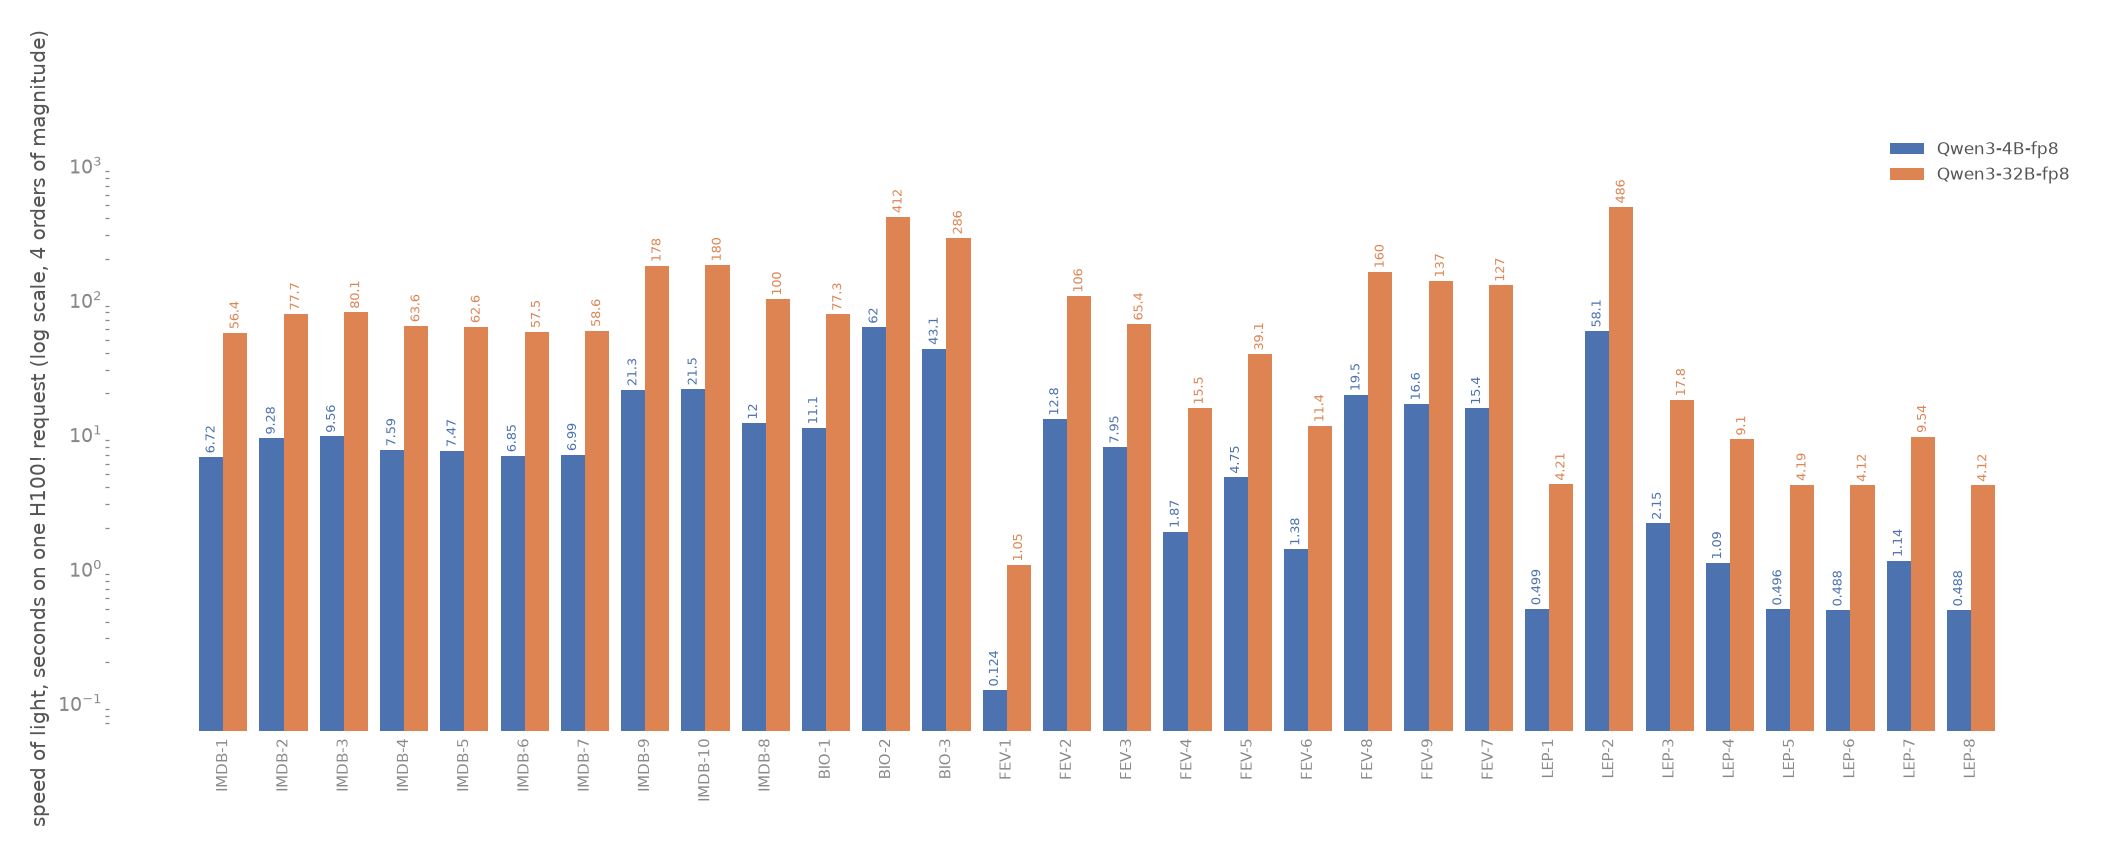
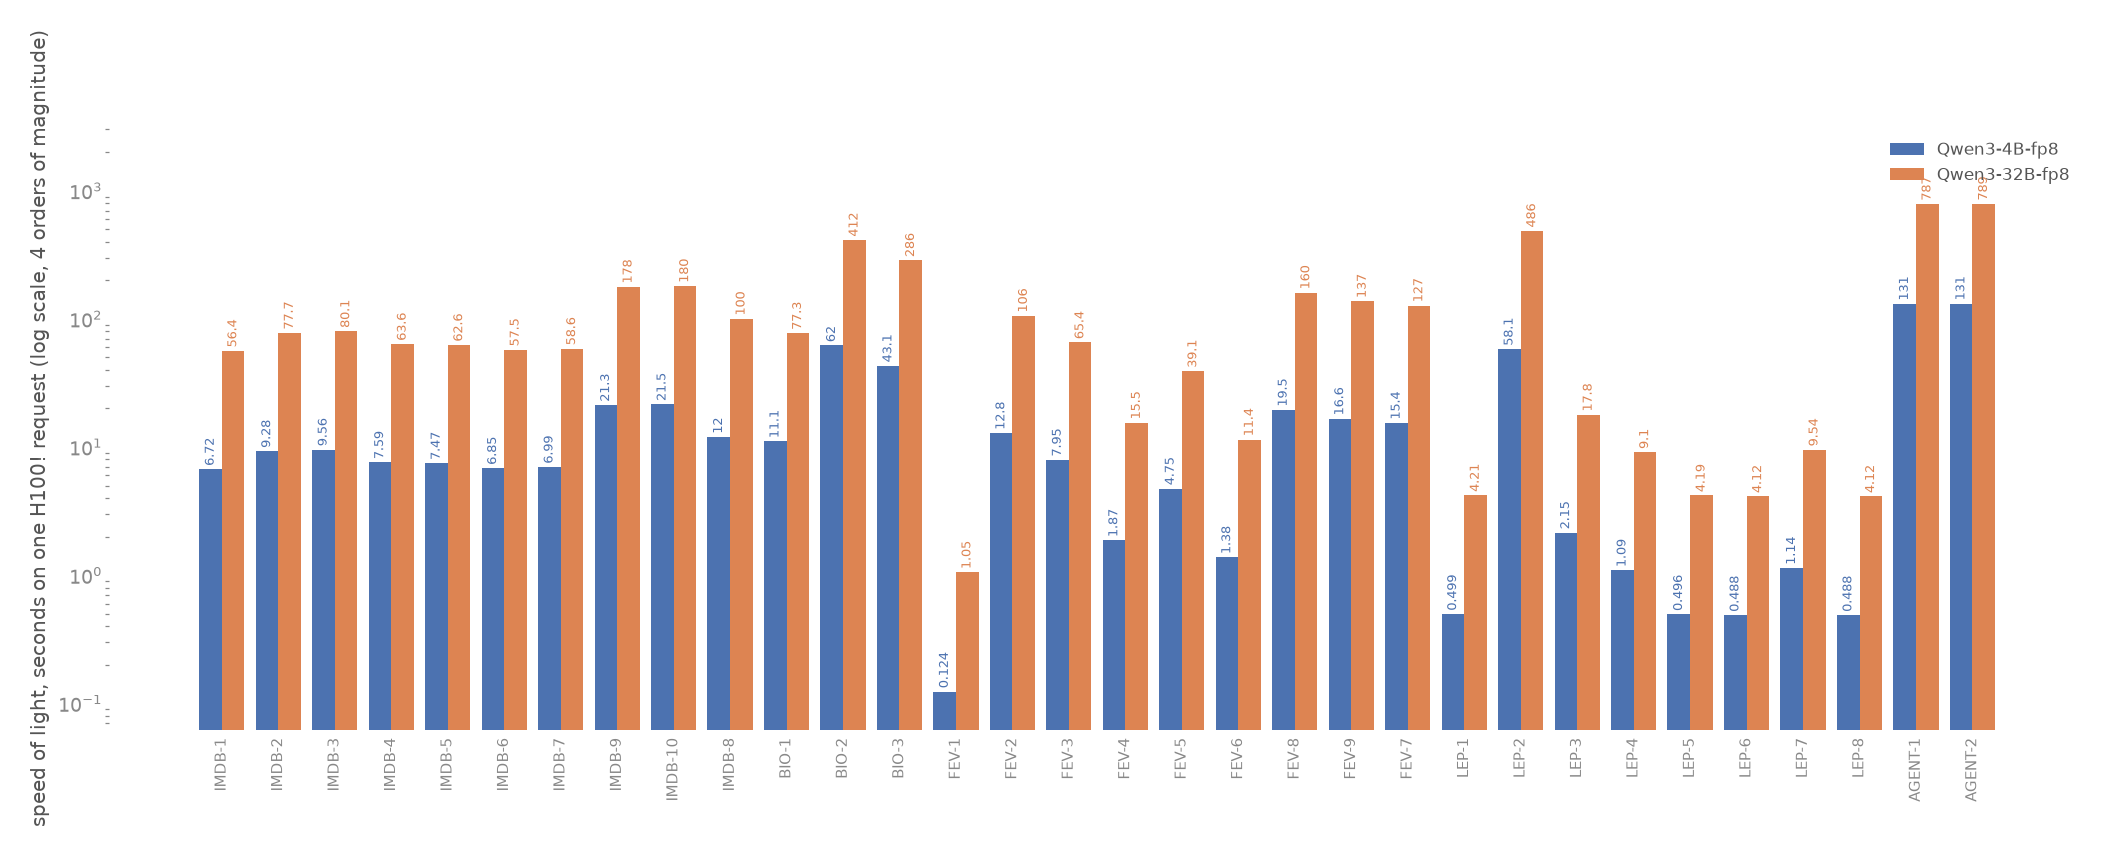
SoL estimates for the two agent queries
The SoL script now tokenizes the agent trace corpus, so AGENT-1 and
AGENT-2 have estimates: 130.96 s and 131.36 s for Qwen3 4B fp8. The
QUAIL-B figures carry SoL marks on all 32 queries, and the totals table
covers all 32: Quail runs them in 2.58 times the SoL total, stock vLLM
in 5.46, pipelined vLLM in 5.21.

Pipelined vLLM finishes AGENT-1 in 0.75 times the SoL. The agent trace
rows are prefixes of each other, and the estimate, like Quail, computes
every document from scratch, while vLLM's prefix cache serves the
shared part. Both reports say so. The regenerated file is on the
quail-results volume at /sol/sol_quailb_sf0.1.json.

Claude-Session: https://claude.ai/code/session_01BKjo54TohtVqYAhCSb6Qz8

diff --git a/reports/make_quailb_sf01_4b_plots.py b/reports/make_quailb_sf01_4b_plots.py
@@ -12,9 +12,8 @@ work directory to this script:
     modal volume get quail-results sol/sol_quailb_sf0.1.json $W/sol.json
     uv run --with matplotlib python reports/make_quailb_sf01_4b_plots.py $W
 
-The SoL file is the ideal work estimate from reports/make_sol_quailb.py. It
-covers the 30 IMDB, BioDEX, FEVER, and LePaRD queries; the two agent
-queries have no estimate and no marker.
+The SoL file is the ideal work estimate from reports/make_sol_quailb.py
+for all 32 queries.
 """
 
 import json
@@ -270,7 +269,7 @@ def print_tables(records, sol):
             print(f"| {query} | {values[0]:,} | {values[1]:,} | "
                   f"{values[2]:,} |")
 
-    print("\nTime relative to SoL, 30 queries with an estimate")
+    print("\nTime relative to SoL")
     print("| Method | Total time (s) | SoL total (s) | Time / SoL | "
           "Median time / SoL | Best query | Worst query |")
     print("|---|---:|---:|---:|---:|---|---|")
@@ -477,8 +476,7 @@ def make_per_query_plot(records, sol):
                  sol, lambda estimate: estimate["seconds"])
     runtime_ax.set_yscale("log")
     runtime_ax.set_ylabel("seconds per query (log scale)")
-    runtime_ax.set_title(
-        "Query time and cost (dark mark: SoL estimate; none for agent queries)")
+    runtime_ax.set_title("Query time and cost (dark mark: SoL estimate)")
     cost_rate = H100_USD_PER_HOUR / 3600
     cost_ax = runtime_ax.secondary_yaxis(
         "right",

diff --git a/reports/make_sol_quailb.py b/reports/make_sol_quailb.py
@@ -162,6 +162,7 @@ COLUMNS = {
         ("citation_contexts", "destination_context"),
     "citation_passages.passage_text":
         ("citation_passages", "passage_text"),
+    "agent_traces.trace": ("agent_traces", "trace"),
 }
 
 # 1. document lengths -------------------------------------------------
@@ -953,8 +954,8 @@ def add_sol_metrics(simulated, model: ModelSpec):
 
 rows = {}
 query_inputs = {}
-# queries over a corpus this estimate does not tokenize (the agent
-# traces) are recorded as skipped rather than estimated
+# a query over a corpus this estimate does not tokenize is recorded as
+# skipped rather than estimated
 skipped = {}
 for qid in query_ids:
     descriptions = {

diff --git a/reports/2026-08-31-quailb-kv-regret.md b/reports/2026-08-31-quailb-kv-regret.md
@@ -185,9 +185,7 @@ Thin vertical lines separate the five query families. The horizontal line
 separates the performance panels from KV regret. The dark horizontal mark on
 each query is the speed of light (SoL) estimate from
 `reports/make_sol_quailb.py`: the ideal one H100 time for the modeled work
-with ideal packing and unlimited KV, priced from counted constants. The two
-agent queries have no estimate, because the SoL script does not model the
-agent trace corpus.
+with ideal packing and unlimited KV, priced from counted constants.
 
 The unit is documents per second for filter-only queries and evaluated document
 pairs per second for queries with at least one join.
@@ -196,14 +194,14 @@ pairs per second for queries with at least one join.
 
 | Method | Total time (s) | SoL total (s) | Time / SoL | Median time / SoL | Best query | Worst query |
 |---|---:|---:|---:|---:|---|---|
-| Quail | 1,149.12 | 370.34 | 3.10x | 2.59x | BIO-1 (1.95x) | LEP-5 (50.85x) |
-| Stock vLLM | 3,179.98 | 370.34 | 8.59x | 6.24x | BIO-1 (2.58x) | LEP-5 (74.08x) |
-| Pipelined vLLM | 3,101.60 | 370.34 | 8.38x | 4.55x | BIO-1 (2.29x) | LEP-5 (81.86x) |
+| Quail | 1,629.61 | 632.66 | 2.58x | 2.48x | AGENT-1 (1.83x) | LEP-5 (50.85x) |
+| Stock vLLM | 3,453.08 | 632.66 | 5.46x | 5.82x | AGENT-1 (1.04x) | LEP-5 (74.08x) |
+| Pipelined vLLM | 3,298.33 | 632.66 | 5.21x | 4.31x | AGENT-1 (0.75x) | LEP-5 (81.86x) |
 
-Quail runs the 30 estimated queries in 3.10 times the SoL total, against 8.59
-times for stock vLLM and 8.38 times for pipelined vLLM. The median query is
-2.59 times SoL for Quail. The BioDEX and most IMDB and FEVER queries sit
-between 2 and 3 times SoL for Quail.
+Quail runs the 32 queries in 2.58 times the SoL total, against 5.46 times for
+stock vLLM and 5.21 times for pipelined vLLM. The median query is 2.48 times
+SoL for Quail. The BioDEX and most IMDB and FEVER queries sit between 2 and 3
+times SoL for Quail.
 
 The LePaRD join queries LEP-3 through LEP-7 sit 19 to 51 times above their
 SoL marks for every method. That gap is not engine overhead. The SoL uses the
@@ -219,6 +217,16 @@ same effect, in a milder form, is why FEV-7 through FEV-9 evaluate 1.6 to 2.1
 times the pairs the SoL models. The three methods do the same model driven
 work, so the comparison between them is unaffected; the SoL column shows what
 the query would cost if the model's answers matched the ground truth.
+
+The agent queries go the other way: pipelined vLLM finishes AGENT-1 in 0.75
+times the SoL and stock vLLM in 1.04 times, while Quail takes 1.83 times. The
+SoL computes every document's prefix once, and so does Quail. The agent trace
+rows are prefixes of each other: the corpus samples one row every five
+assistant turns of the same trajectory, so consecutive rows share most of
+their 9,736 mean tokens. vLLM's prefix cache serves the shared part from KV,
+which is work the SoL charges in full. The regret metric does not count that
+sharing either, which is why both vLLM methods report zero regret on these
+queries while beating Quail.
 
 ### Per-query metrics
 
@@ -257,8 +265,8 @@ work, and cost. Each method's cell ends with its time as a multiple of SoL.
 | LEP-6 | pairs/s | 0.49 s; 1,910.4 pairs/s; $0.0005 | 9.15 s; 1,419.7 pairs/s; $0.0100; 0 regret; 18.74x SoL | 20.03 s; 886.4 pairs/s; $0.0220; 1,888 regret; 41.01x SoL | 17.88 s; 992.9 pairs/s; $0.0196; 1,888 regret; 36.61x SoL |
 | LEP-7 | pairs/s | 1.14 s; 1,542.1 pairs/s; $0.0012 | 39.39 s; 1,599.4 pairs/s; $0.0432; 0 regret; 34.61x SoL | 51.80 s; 1,235.4 pairs/s; $0.0568; 19,440 regret; 45.51x SoL | 48.01 s; 1,332.8 pairs/s; $0.0527; 19,440 regret; 42.19x SoL |
 | LEP-8 | docs/s | 0.49 s; 1,023.8 docs/s; $0.0005 | 1.33 s; 375.9 docs/s; $0.0015; 0 regret; 2.72x SoL | 2.53 s; 197.7 docs/s; $0.0028; 0 regret; 5.18x SoL | 1.97 s; 253.3 docs/s; $0.0022; 0 regret; 4.04x SoL |
-| AGENT-1 | docs/s | none | 239.75 s; 7.4 docs/s; $0.2630; 0 regret | 135.96 s; 13.0 docs/s; $0.1491; 0 regret | 97.99 s; 18.1 docs/s; $0.1075; 0 regret |
-| AGENT-2 | docs/s | none | 240.74 s; 7.4 docs/s; $0.2641; 0 regret | 137.13 s; 12.9 docs/s; $0.1504; 0 regret | 98.74 s; 17.9 docs/s; $0.1083; 0 regret |
+| AGENT-1 | docs/s | 130.96 s; 13.5 docs/s; $0.1437 | 239.75 s; 7.4 docs/s; $0.2630; 0 regret; 1.83x SoL | 135.96 s; 13.0 docs/s; $0.1491; 0 regret; 1.04x SoL | 97.99 s; 18.1 docs/s; $0.1075; 0 regret; 0.75x SoL |
+| AGENT-2 | docs/s | 131.36 s; 13.5 docs/s; $0.1441 | 240.74 s; 7.4 docs/s; $0.2641; 0 regret; 1.83x SoL | 137.13 s; 12.9 docs/s; $0.1504; 0 regret; 1.04x SoL | 98.74 s; 17.9 docs/s; $0.1083; 0 regret; 0.75x SoL |
 wrote /home/user/quail-exploration/reports/plots/quailb_sf01_4b_metrics.png
 wrote /home/user/quail-exploration/reports/plots/quailb_sf01_4b_per_query.png
 

diff --git a/reports/2026-08-29-sol-quailb.md b/reports/2026-08-29-sol-quailb.md
@@ -1,19 +1,17 @@
-# Speed of light for the 30 current QuailB queries
+# Speed of light for the 32 QuailB queries
 
 ## Setup
 
-- The calculation covers 30 of the 32 QuailB queries at scale factor 0.1.
-  The two agent trace queries, AGENT-1 and AGENT-2, are recorded as
-  skipped: the script does not tokenize the agent trace corpus.
+- The calculation covers all 32 QuailB queries at scale factor 0.1. The
+  two agent trace queries were added on 2026-09-04; the 30 others were
+  regenerated the same day against the active collection and matched
+  the 2026-08-29 file exactly.
 - It runs separately for Qwen3 4B fp8 and Qwen3 32B fp8.
 - Each estimate is for one H100! request and one model copy.
 - The corpus is `c_1aa2c4f0d0b6c816fd37aa5748c33341`.
 - Ground truth collection `gt_77bb8b128743a79aedddaa24c808c3f8`, the
   active selectivity estimate collection, supplies exact survivors for
-  every predicate. The file was regenerated on 2026-09-04 against this
-  collection; every per query estimate matched the 2026-08-29 file built
-  on `gt_363b5ab570635c33894e1a030c21f57e`, so the numbers below are
-  unchanged.
+  every predicate, including the two agent trace predicates.
 - The full result is at `/results/sol/sol_quailb_sf0.1.json` on the
   `quail-results` Modal volume.
 
@@ -54,8 +52,15 @@ FEVER claims. The active scale factor 0.1 corpus has 500 of each. The measured
 engine runs also used 500 of each, so the regenerated estimate is the correct
 comparison.
 
-- The 4B estimates total 370.34 seconds. The old file totaled 209.14 seconds.
-- The 32B estimates total 2,890.58 seconds.
+- The 4B estimates total 632.66 seconds over 32 queries; the 30 queries
+  of the 2026-08-29 file total 370.34 seconds, and the file before that
+  totaled 209.14 seconds.
+- The 32B estimates total 4,466.82 seconds.
+- The two agent queries total 262.32 seconds for 4B and 1,576.24 seconds
+  for 32B. Each is one filter over 1,772 traces of 9,736 mean tokens, and
+  the estimate computes every trace from scratch. Trace rows sampled from
+  the same trajectory share long prefixes, which this estimate does not
+  credit; a prefix cache that does can finish below it.
 - IMDB totals 109.23 seconds for 4B.
 - BioDEX totals 116.17 seconds for 4B.
 - FEVER totals 80.50 seconds for 4B.
